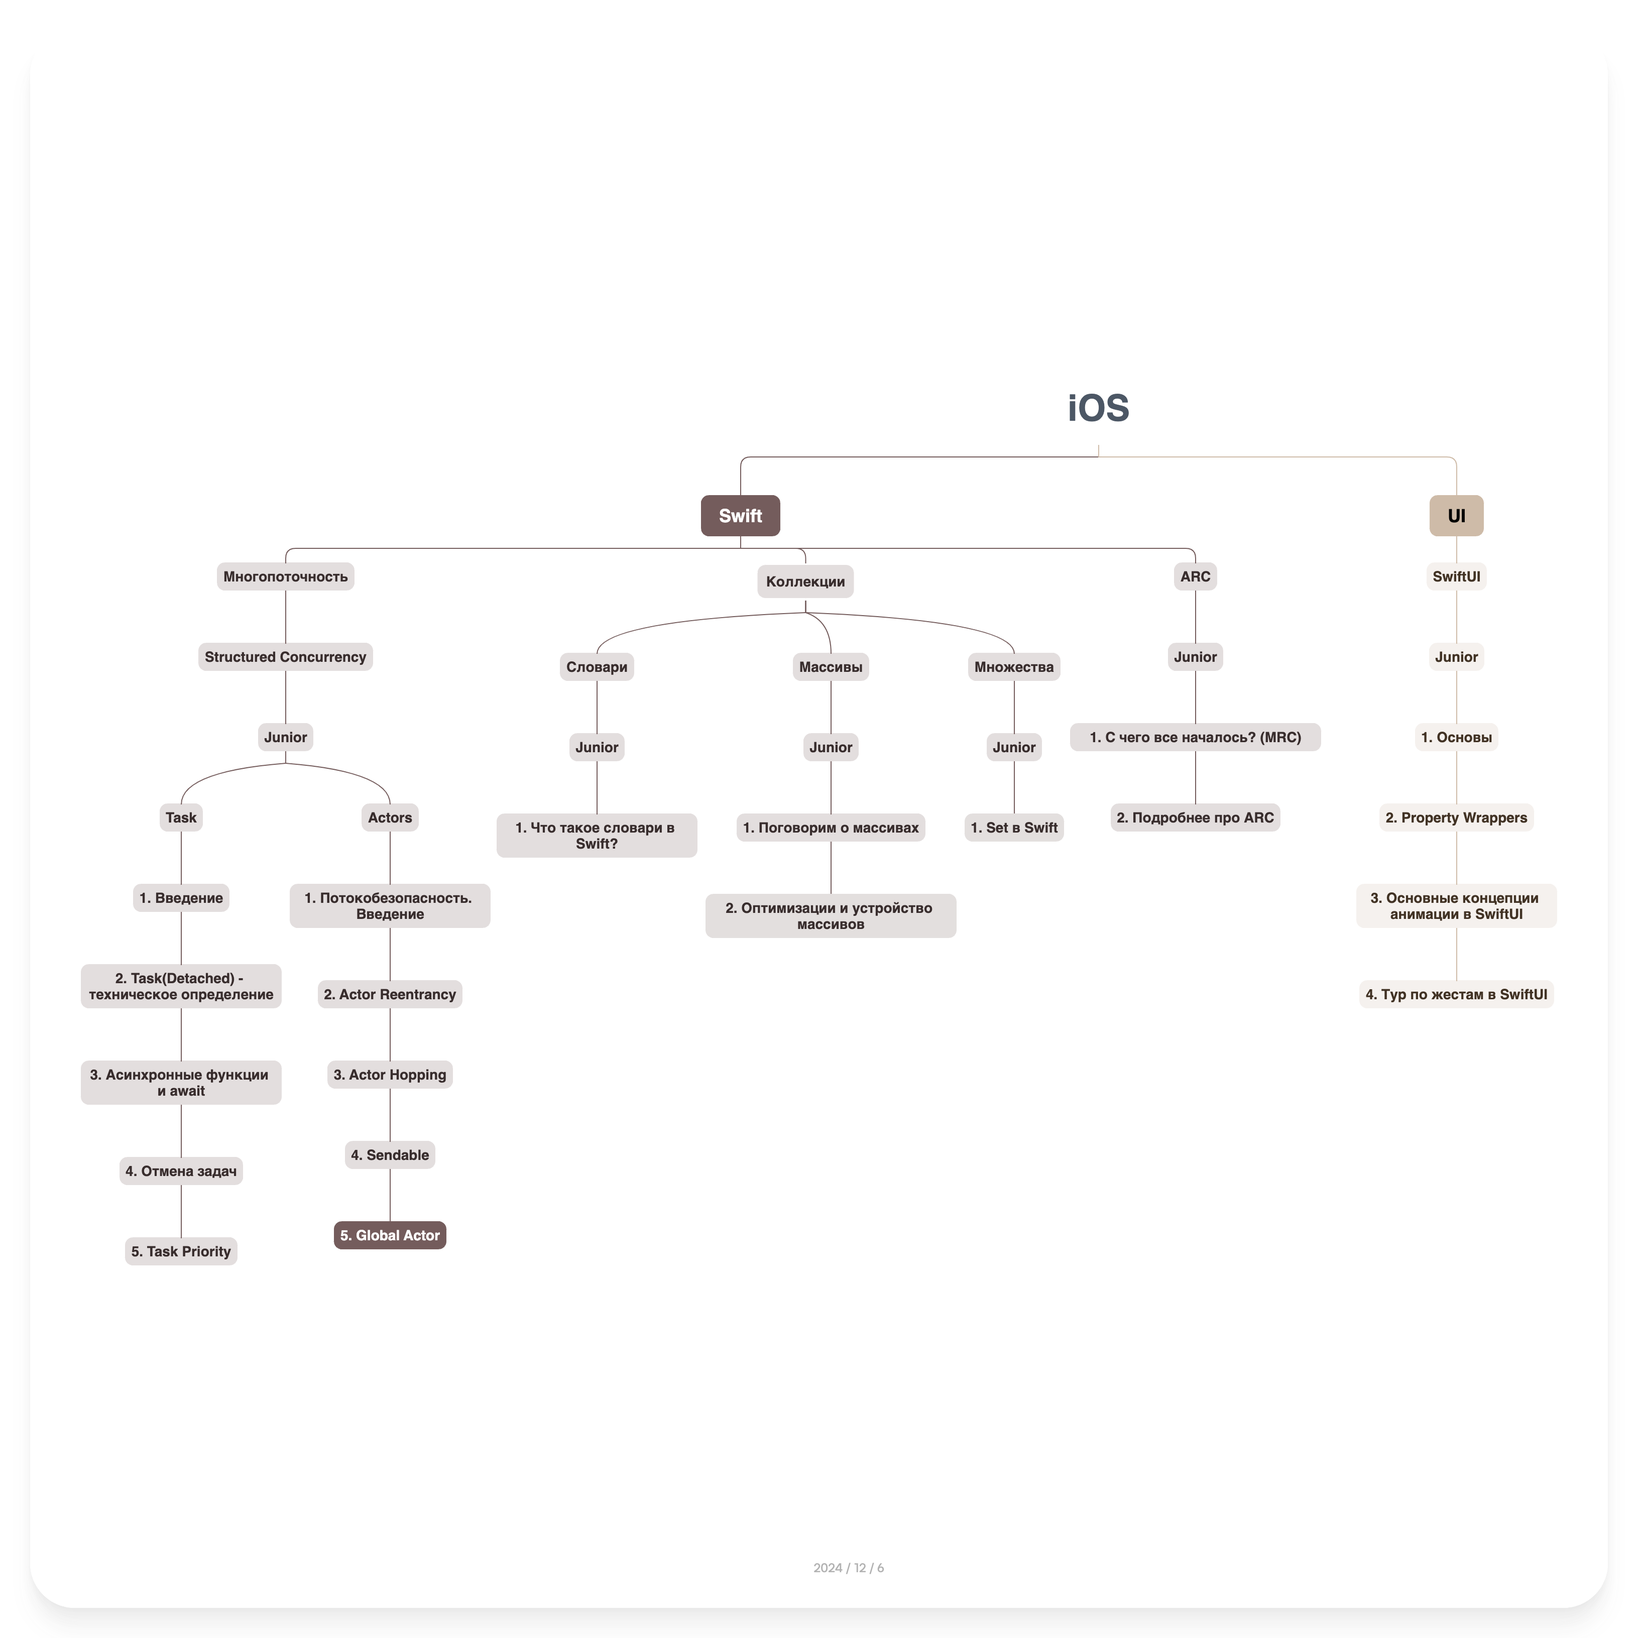
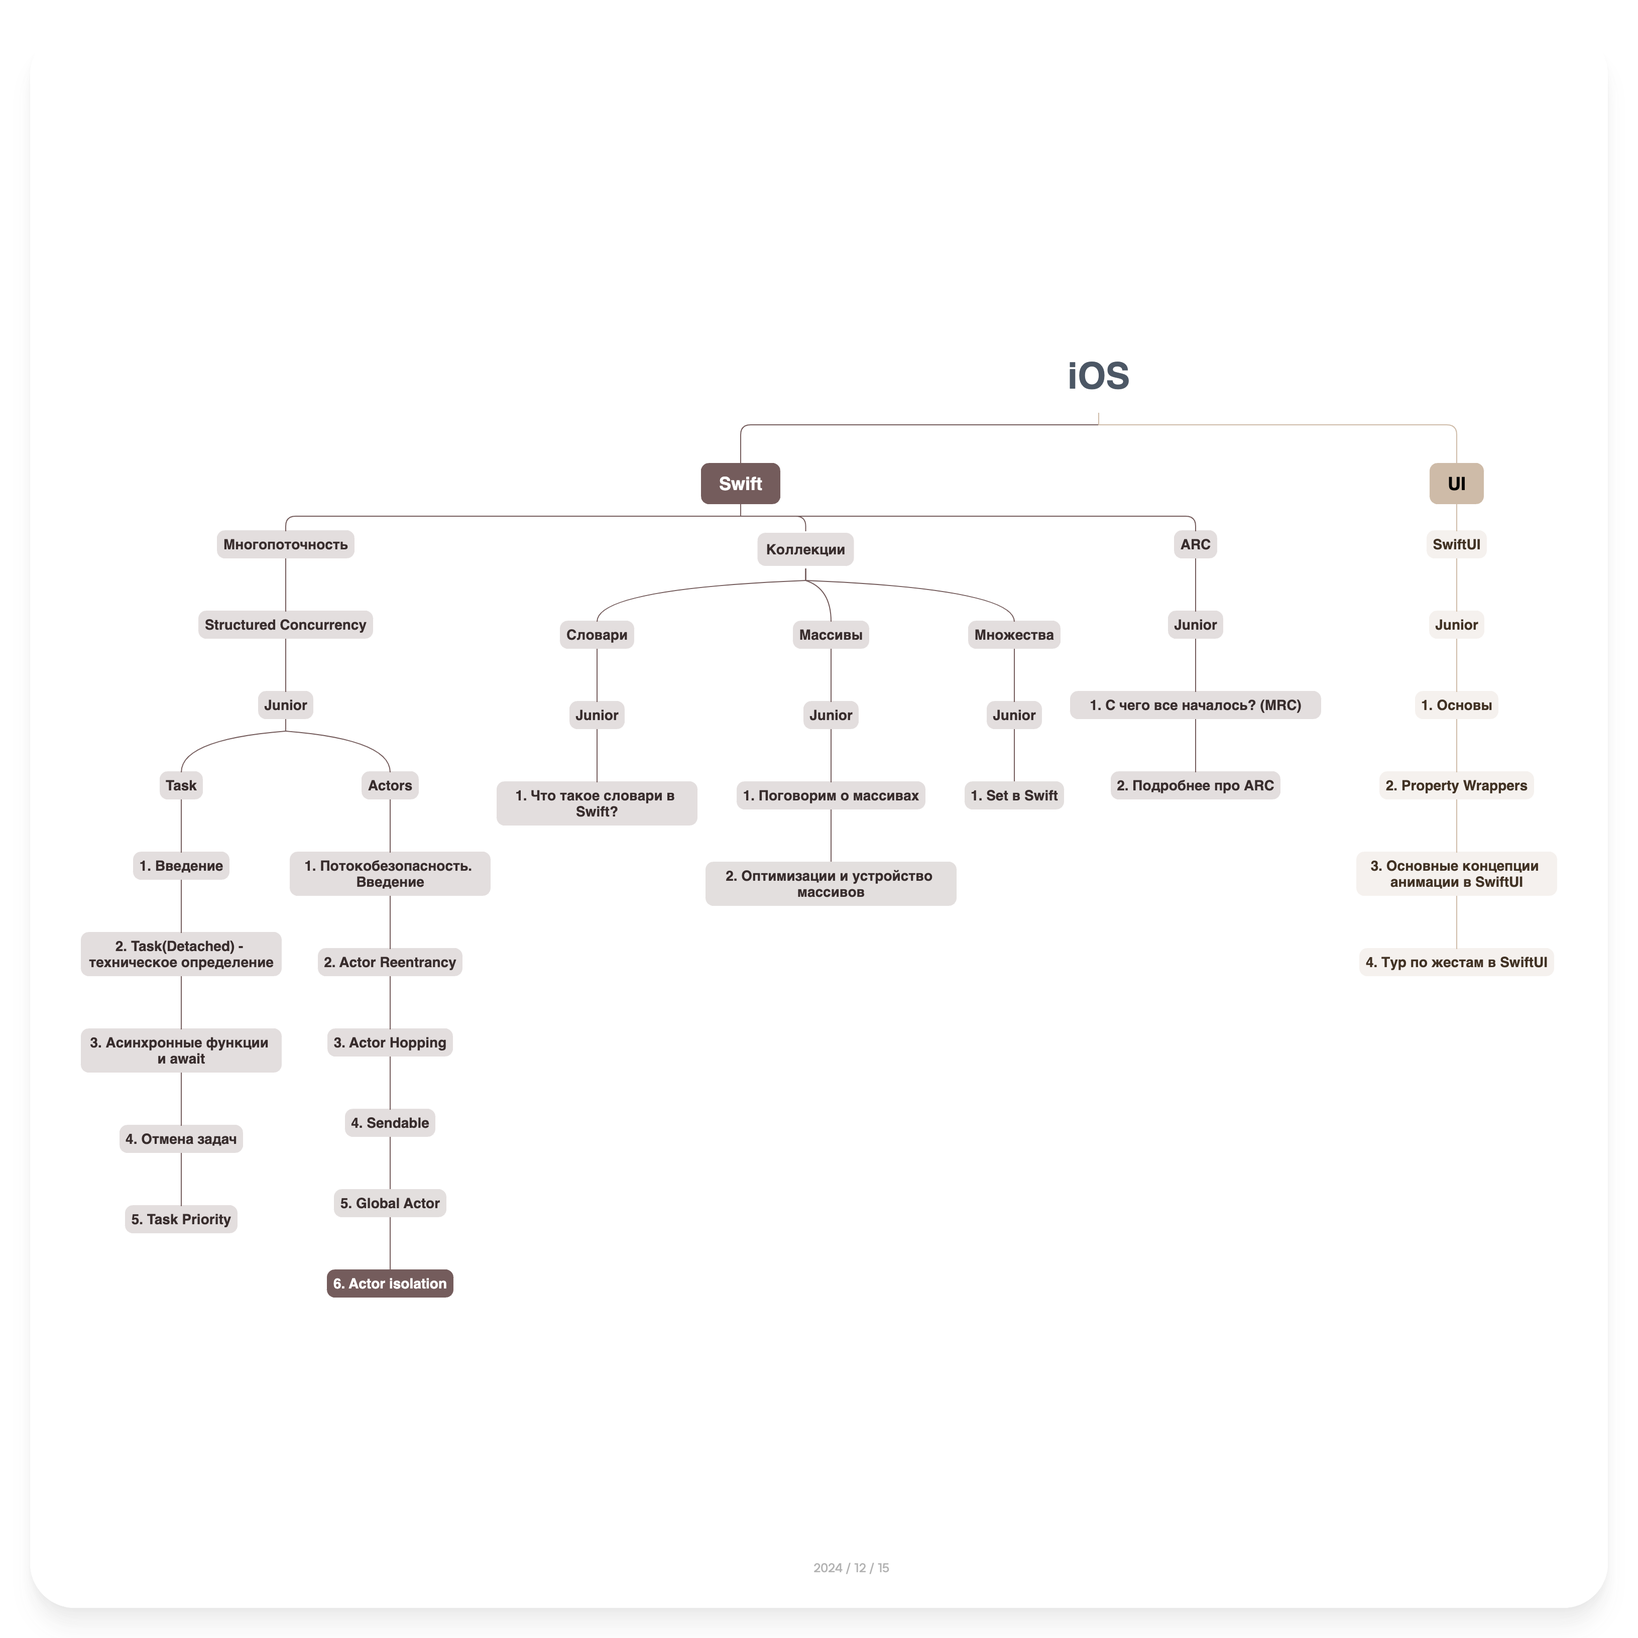
Sync changes from private repo to public

diff --git a/docs/Swift/Многопоточность/Structured Concurrency/Junior/Actors/5. Global Actor.md b/docs/Swift/Многопоточность/Structured Concurrency/Junior/Actors/5. Global Actor.md
@@ -1,21 +1,13 @@
+Мы уже с вами изучили как работает Actor, для чего он нужен. Но скорее всего вы уже слышали про MainActor. Так вот он реализован он немного по-другому. У него гораздо больше ответственности и нагрузки на него, но не потому что он отвечает за главный поток, а потому что он является глобальным(Global)
 
----
-
-> **Изучение данного блока предполагает предварительное знание синтаксиса языка Swift.**
-*Для успешного освоения этого материала, необходимо иметь базовое понимание синтаксиса языка Swift. Это включает в себя знание основных структур данных, операторов, циклов, функций, абстракций и других ключевых элементов языка. Без этих фундаментальных знаний будет сложно понять более сложные концепции и примеры, которые будут рассматриваться в данном блоке.*
-> 
-
----
-
-Мы уже с вами изучили как работает **Actor**, для чего он нужен. Но скорее всего вы уже слышали про **MainActor**. Так вот он реализован он немного по-другому. У него гораздо больше ответственности и нагрузки на него, но не потому что он отвечает за главный поток, а потому что он является глобальным(**Global**)
 ## Определение
-**Global Actor в Swift** — это механизм, который позволяет обеспечить безопасный и синхронизированный доступ к **глобальным** данным и функциям в многопоточной среде, используя модель акторов для контроля доступа. Если говорить тезисно:
 
-- Это синглон
+Global Actor в Swift — это механизм, который позволяет обеспечить безопасный и синхронизированный доступ к **глобальным** данным и функциям в многопоточной среде, используя модель акторов для контроля доступа. Если говорить тезисно:
+
+- Это синглтон
 - Умеет шарить своего исполнителя между вызовами
 - Умеет шарить изоляцию между всеми вызовами
 - Глобальный Actor можно применять к классам, методам, функциям, замыканиям
-
 ### Примеры
 ``` swift
 @globalActor
@@ -30,14 +22,13 @@ func globalFunction() {
     // Действия, безопасно выполняемые в MyGlobalActor
 }
 ```
+При создании global Actor важно:
 
-**При создании global Actor важно:**
+1)  Отнаследоваться от **GlobalActor**
 
-1.  Отнаследоваться от **GlobalActor**
+2)  Добавить аннотацию  **@globalActor**
 
-2.  Добавить аннотацию  **@globalActor**
-
-3. Заприватить инициализатор, чтобы доступ был как к синглтону
+3) Заприватить инициализатор, чтобы доступ был как к синглтону
 
 ## Зачем нужен global Actor?
 
@@ -66,8 +57,11 @@ Task.detached { @SharedActor in
 }
 ```
 В примере выше будет последовательно выведено подряд либо десять единиц, а затем 10 двоек, либо наоборот. Это как раз связано с тем, что эктор выполнит одну задачу, а затем перейдёт к другой. Если же убрать **@SharedActor** из кложуры - то единицы и двойки будут выводиться смешанно.
+
+
 ## MainActor
-**MainActor** - это обычный глобальный эктор,  все задачи которые им изолируются - попадают на главный поток. Все задачи на таком экторе имеют самый высокий приоритет.
+MainActor - это обычный глобальный эктор,  все задачи которые им изолируются - попадают на главный поток. Все задачи на таком экторе имеют самый высокий приоритет.
+
 ``` swift
 
 Task.detached { @MainActor in
@@ -83,6 +77,7 @@ Task.detached { @MainActor in
 }
 ```
 Результат будет таким же как в примере выше, только все циклы будут работать на главном потоке.
+
 ``` swift
 
 Task.detached { @MainActor in
@@ -91,6 +86,7 @@ Task.detached { @MainActor in
 	/// Снова возвращаемся к контексту главного исполнителя
 }
 ```
+
 ``` swift
 
 Task.detached {
@@ -126,4 +122,4 @@ example.example()
 ```
 **Что будет выведено на экран?**
 
-*Ответ*: Хоть метод и помечен **@MainActor** и кажется, что он будет исполняться на главном потоке. Но это не так, на самом деле напечатается **Background Thread**.  Здесь проблема вызвана именно сочетанием кода **GCD** и **Structured Concurrency**. Почему так происходит и где теряется контекст - обсудим в статьях более сложного уровня.
+*Ответ*: Хоть метод и помечен @MainActor и кажется, что он будет исполняться на главном потоке. Но это не так, на самом деле напечатается **Background Thread**.  Здесь проблема вызвана именно сочетанием кода GCD и Structured Concurrency. Почему так происходит и где теряется контекст - обсудим в статьях более сложного уровня.

diff --git a/docs/Swift/Многопоточность/Structured Concurrency/Junior/Actors/6. Actor isolation.md b/docs/Swift/Многопоточность/Structured Concurrency/Junior/Actors/6. Actor isolation.md
@@ -1,0 +1,108 @@
+Из прошлых статей можно сделать вывод, что Actor является потокобезопасным контейнером, который изолирует свой стейт и предоставляет доступ к нему только 1 задаче за одну единицу времени. Глобальный актор - делает тоже самое, только он шарит изоляцию между всеми всеми вызовами.
+
+## isolation
+Синхронные методы, находящиеся внутри Актора изолированы им,  обращение к таким методам происходит через **await**. Пример ниже:
+
+``` swift
+actor LocalCache<T> {
+	
+	private var value: T?
+	let lifetime: TimeInterval
+
+	var cacheValue: T? {
+		value
+	}
+	
+	init(value: T, lifetime: TimeInterval) {
+		self.value = value
+		self.lifetime = lifetime
+	}
+
+	func setNewCacheValue(_ newValue: T?) {
+		self.value = newValue
+	}
+	
+	func dropCacheValue() {
+		self.value = nil
+	}
+}
+
+let cache = LocalCache(value: 2, lifetime: 1) 
+
+Task {
+	await cache.setNewCacheValue(5)
+	await cache.dropCacheValue()
+	let lifeTime = await cache.lifetime // кажется изоляция здесь лишняя
+}
+```
+
+В примере выше изоляция необходима для изменяемых пропертей. Но вот для получения  времени жизни кеша(cache.lifetime) - изоляция кажется излишней. Потому что cache.lifetime - неизменяемое проперти. Оно не будет изменяться на протяжении жизни всего эктора. Но как убрать эту лишнюю изоляцию?
+
+## nonisolated
+
+### Снять изоляцию с неизменяемых переменных
+Если в экторе нам не требуется изоляция для какого-нибудь метода/переменной, то мы можем написать ключевое слово nonisolated и тогда изоляцию будет снята с переменной/функции
+
+``` swift
+actor LocalCache<T> {
+	....
+
+	nonisolated let lifetime: TimeInterval
+
+	...
+}
+
+let cache = LocalCache(value: 2, lifetime: 1) 
+
+Task {
+	let lifeTime = cache.lifetime // Теперь писать await не нужно
+}
+```
+
+### Протоколы
+Если нам потребуется сделать наследование эктора от протокола, то нам также потребуется использование nonisolated
+
+``` swift
+
+protocol AnyService {
+	func setNewValue(_ newValue: Int)
+}
+
+actor Service: AnyService {
+
+	// ЗДЕСЬ БУДЕТ ОШИБКА КОМПИЛЯЦИИ
+	func setNewValue(_ newValue: Int) {
+	}
+}
+```
+Это происходит потому, что методы внутри эктора изолированы и для внешнего использования - они являются асинхронными,  а метод в протоколе синхронный
+#### Вариант 1
+``` swift
+
+protocol AnyService {
+	func setNewValue(_ newValue: Int)
+}
+
+actor Service: AnyService {
+
+	/// Убрали изоляцию и метод стал синхронным - соответствует протоколу
+	nonisolated func setNewValue(_ newValue: Int) { ... }
+}
+```
+
+#### Вариант 2
+``` swift
+
+protocol AnyService {
+	func setNewValue(_ newValue: Int) async
+}
+
+actor Service: AnyService {
+
+	/// Убрали изоляцию и метод стал синхронным - соответствует протоколу
+	func setNewValue(_ newValue: Int) async { ... }
+}
+```
+
+
+> На начальном этапе  для дебага и общего понимания хочется увидеть есть ли какая-нибудь изоляция у метода -- для этого можно использовать макрос #isolation

diff --git a/docs/Swift/Многопоточность/Structured Concurrency/Junior/Tasks/5. Task Priority.md b/docs/Swift/Многопоточность/Structured Concurrency/Junior/Tasks/5. Task Priority.md
@@ -28,7 +28,7 @@
  
 Когда вы используете модифаер .task для view в SUI - по умолчанию выставляется приоритет - **userInitiated**. 
 
-Если мы инициализируем Task/Task.detched без указания приоритета, то приоритет по умолчанию nil, а он приравнивается к самому низкому приоритету - нулевому. 
+Если мы инициализируем Task.detched без указания приоритета, то приоритет по умолчанию nil, а он приравнивается к самому низкому приоритету - нулевому. 
 
 Код из сорцов swift
 `bits |= (bits & ~0xFF) | Int(priority?.rawValue ?? 0)`
